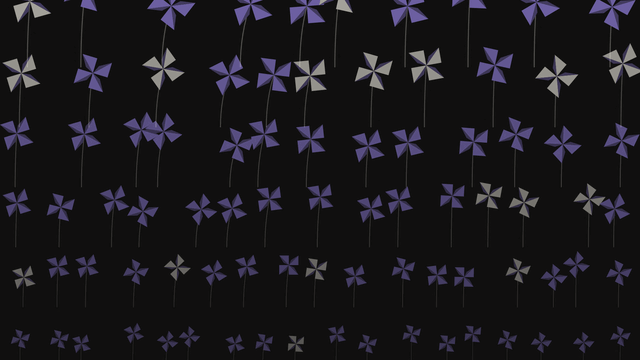
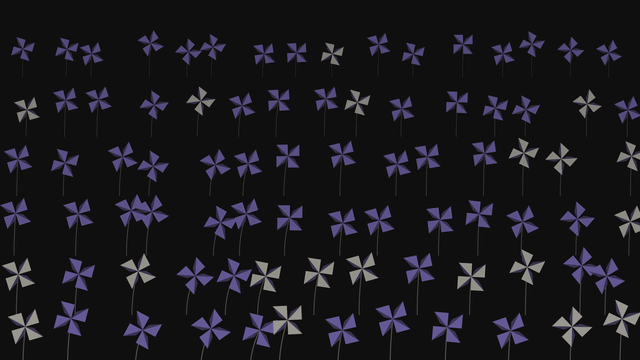
fix(bits): put the near rows of Pinwheel Meadow at the bottom and even out sizes

diff --git a/src/catalog/inventory.generated.ts b/src/catalog/inventory.generated.ts
@@ -793,7 +793,7 @@ export const sharedBitInventory: SharedBitInventoryEntry[] = [
       "random",
       "viewport"
     ],
-    "sourceCode": "<!doctype html>\n<html lang=\"en\" data-composition-variables='[{\"id\":\"background\",\"type\":\"color\",\"label\":\"Background\",\"default\":\"#100f0f\"},{\"id\":\"foreground\",\"type\":\"color\",\"label\":\"Foreground\",\"default\":\"#f2f0e5\"},{\"id\":\"accent\",\"type\":\"color\",\"label\":\"Accent\",\"default\":\"#9d8af0\"},{\"id\":\"pinwheels\",\"type\":\"number\",\"label\":\"Pinwheels per row\",\"default\":14},{\"id\":\"seed\",\"type\":\"number\",\"label\":\"Seed\",\"default\":5}]'>\n  <head>\n    <meta charset=\"UTF-8\" />\n    <meta name=\"viewport\" content=\"width=1920, height=1080\" />\n    <script src=\"https://cdn.jsdelivr.net/npm/gsap@3.14.2/dist/gsap.min.js\"></script>\n    <script src=\"hyperbits.iife.js\" data-hyperbits-src=\"https://unpkg.com/hyperbits/dist/hyperbits.iife.js\" data-hyperbits-local=\"../../../dist/hyperbits.iife.js\"></script>\n    <style>\n      :root {\n        --bg: #100f0f;\n        --fg: #f2f0e5;\n        --accent: #9d8af0;\n      }\n      * {\n        margin: 0;\n        padding: 0;\n        box-sizing: border-box;\n      }\n      html,\n      body {\n        margin: 0;\n        width: 1920px;\n        height: 1080px;\n        overflow: hidden;\n        background-color: #100f0f;\n      }\n      #root {\n        width: 100%;\n        height: 100%;\n        position: relative;\n        overflow: hidden;\n      }\n      #stage {\n        position: absolute;\n        inset: 0;\n        width: 100%;\n        height: 100%;\n        z-index: 1;\n      }\n    </style>\n  </head>\n  <body>\n    <div\n      id=\"root\"\n      class=\"clip\"\n      data-composition-id=\"pinwheel-grid\"\n      data-start=\"0\"\n      data-duration=\"12\"\n      data-width=\"1920\"\n      data-height=\"1080\"\n    >\n      <div id=\"bg\" class=\"clip\" data-start=\"0\" data-duration=\"12\" style=\"position:absolute;inset:0;background-color:#100f0f\"></div>\n      <canvas id=\"stage\" class=\"clip\" data-start=\"0\" data-duration=\"12\"></canvas>\n    </div>\n    <script>\n      (function () {\n\n        function bitVars() {\n          if (window.__hyperframes && typeof window.__hyperframes.getVariables === \"function\") {\n            return window.__hyperframes.getVariables();\n          }\n          const raw = document.documentElement.getAttribute(\"data-composition-variables\") || \"[]\";\n          const decls = JSON.parse(raw);\n          const values = {};\n          for (const entry of decls) values[entry.id] = entry.default;\n          return values;\n        }\n        function registerTimeline(compositionId, timeline) {\n          window.__timelines = window.__timelines || {};\n          window.__timelines[compositionId] = timeline;\n          timeline.seek(0);\n        }\n\n\n        const vars = bitVars();\n        const root = document.getElementById(\"root\");\n        const bg = document.getElementById(\"bg\");\n        const canvas = document.getElementById(\"stage\");\n        const view = hyperbits.viewport(root);\n        bg.style.backgroundColor = vars.background;\n        canvas.width = view.width;\n        canvas.height = view.height;\n        const context = canvas.getContext(\"2d\");\n        const loop = 12;\n        const turn = Math.PI * 2;\n        function channels(color) {\n          const parts = hyperbits.mixOklch(String(color), String(color), 0, \"rgb(0, 0, 0)\").match(/[0-9.]+/g) || [0, 0, 0];\n          return parts.slice(0, 3).map(Number);\n        }\n        function rgba(rgb, alpha) {\n          return \"rgba(\" + rgb[0] + \", \" + rgb[1] + \", \" + rgb[2] + \", \" + Math.min(Math.max(alpha, 0), 1) + \")\";\n        }\n        function mix(from, to, amount) {\n          return from.map((value, index) => Math.round(value + (to[index] - value) * amount));\n        }\n        const background = channels(vars.background);\n        const foreground = channels(vars.foreground);\n        const accent = channels(vars.accent);\n        const perRow = Math.max(2, Math.round(Number(vars.pinwheels) || 14));\n        const seed = Number(vars.seed) || 0;\n        const plants = [];\n        for (let row = 0; row < 6; row += 1) {\n          const depth = 1 - row / 6;\n          const count = Math.round(perRow * (0.7 + row * 0.12));\n          for (let index = 0; index < count; index += 1) {\n            const key = \"meadow-\" + seed + \"-\" + row + \"-\" + index;\n            plants.push({\n              depth,\n              baseX: view.width * ((index + hyperbits.randomFloat(key + \"-x\", 0.2, 0.8)) / count),\n              baseY: view.height * (1.02 - 0.17 * (5 - row) * 0.98),\n              height: view.vmin * (6 + 12 * depth) * hyperbits.randomFloat(key + \"-h\", 0.8, 1.2),\n              radius: view.vmin * (1.6 + 3.2 * depth),\n              tone: mix(hyperbits.random(key + \"-t\") > 0.75 ? foreground : accent, background, 0.35 + 0.4 * (1 - depth)),\n              fold: mix(accent, background, 0.65 + 0.2 * (1 - depth)),\n              spin: hyperbits.pick(key + \"-s\", [1, 1, -1]),\n            });\n          }\n        }\n        plants.sort((left, right) => left.depth - right.depth);\n        function wheel(radius, tone, fold) {\n          for (let blade = 0; blade < 4; blade += 1) {\n            context.fillStyle = rgba(tone, 1);\n            context.beginPath();\n            context.moveTo(0, 0);\n            context.lineTo(radius, 0);\n            context.lineTo(radius, -radius);\n            context.closePath();\n            context.fill();\n            context.fillStyle = rgba(fold, 1);\n            context.beginPath();\n            context.moveTo(0, 0);\n            context.lineTo(radius, -radius);\n            context.lineTo(radius * 0.25, -radius * 0.55);\n            context.closePath();\n            context.fill();\n            context.rotate(Math.PI / 2);\n          }\n        }\n        function draw(phase) {\n          if (!context || typeof context.stroke !== \"function\") return;\n          context.clearRect(0, 0, view.width, view.height);\n          for (const plant of plants) {\n            const gust = Math.pow(0.5 + 0.5 * Math.cos(turn * (phase - plant.baseX / view.width)), 3);\n            const tipX = plant.baseX + view.vmin * (0.6 + 2.4 * gust) * plant.depth;\n            const tipY = plant.baseY - plant.height;\n            context.strokeStyle = rgba(foreground, 0.12 + 0.18 * plant.depth);\n            context.lineWidth = view.vmin * (0.1 + 0.18 * plant.depth);\n            context.beginPath();\n            context.moveTo(plant.baseX, plant.baseY);\n            context.quadraticCurveTo(plant.baseX, plant.baseY - plant.height * 0.55, tipX, tipY);\n            context.stroke();\n            context.save();\n            context.translate(tipX, tipY);\n            context.rotate(plant.spin * (turn * phase + 0.8 * Math.sin(turn * (phase - plant.baseX / view.width))));\n            wheel(plant.radius, plant.tone, plant.fold);\n            context.restore();\n          }\n        }\n        const proxy = { time: 0 };\n        const timeline = gsap.timeline({ paused: true });\n        timeline.to(proxy, { time: loop, duration: loop, ease: \"none\", onUpdate: () => draw((proxy.time % loop) / loop) }, 0);\n        draw(0);\n        registerTimeline(\"pinwheel-grid\", timeline);\n\n      })();\n    </script>\n  </body>\n</html>\n",
+    "sourceCode": "<!doctype html>\n<html lang=\"en\" data-composition-variables='[{\"id\":\"background\",\"type\":\"color\",\"label\":\"Background\",\"default\":\"#100f0f\"},{\"id\":\"foreground\",\"type\":\"color\",\"label\":\"Foreground\",\"default\":\"#f2f0e5\"},{\"id\":\"accent\",\"type\":\"color\",\"label\":\"Accent\",\"default\":\"#9d8af0\"},{\"id\":\"pinwheels\",\"type\":\"number\",\"label\":\"Pinwheels per row\",\"default\":14},{\"id\":\"seed\",\"type\":\"number\",\"label\":\"Seed\",\"default\":5}]'>\n  <head>\n    <meta charset=\"UTF-8\" />\n    <meta name=\"viewport\" content=\"width=1920, height=1080\" />\n    <script src=\"https://cdn.jsdelivr.net/npm/gsap@3.14.2/dist/gsap.min.js\"></script>\n    <script src=\"hyperbits.iife.js\" data-hyperbits-src=\"https://unpkg.com/hyperbits/dist/hyperbits.iife.js\" data-hyperbits-local=\"../../../dist/hyperbits.iife.js\"></script>\n    <style>\n      :root {\n        --bg: #100f0f;\n        --fg: #f2f0e5;\n        --accent: #9d8af0;\n      }\n      * {\n        margin: 0;\n        padding: 0;\n        box-sizing: border-box;\n      }\n      html,\n      body {\n        margin: 0;\n        width: 1920px;\n        height: 1080px;\n        overflow: hidden;\n        background-color: #100f0f;\n      }\n      #root {\n        width: 100%;\n        height: 100%;\n        position: relative;\n        overflow: hidden;\n      }\n      #stage {\n        position: absolute;\n        inset: 0;\n        width: 100%;\n        height: 100%;\n        z-index: 1;\n      }\n    </style>\n  </head>\n  <body>\n    <div\n      id=\"root\"\n      class=\"clip\"\n      data-composition-id=\"pinwheel-grid\"\n      data-start=\"0\"\n      data-duration=\"12\"\n      data-width=\"1920\"\n      data-height=\"1080\"\n    >\n      <div id=\"bg\" class=\"clip\" data-start=\"0\" data-duration=\"12\" style=\"position:absolute;inset:0;background-color:#100f0f\"></div>\n      <canvas id=\"stage\" class=\"clip\" data-start=\"0\" data-duration=\"12\"></canvas>\n    </div>\n    <script>\n      (function () {\n\n        function bitVars() {\n          if (window.__hyperframes && typeof window.__hyperframes.getVariables === \"function\") {\n            return window.__hyperframes.getVariables();\n          }\n          const raw = document.documentElement.getAttribute(\"data-composition-variables\") || \"[]\";\n          const decls = JSON.parse(raw);\n          const values = {};\n          for (const entry of decls) values[entry.id] = entry.default;\n          return values;\n        }\n        function registerTimeline(compositionId, timeline) {\n          window.__timelines = window.__timelines || {};\n          window.__timelines[compositionId] = timeline;\n          timeline.seek(0);\n        }\n\n\n        const vars = bitVars();\n        const root = document.getElementById(\"root\");\n        const bg = document.getElementById(\"bg\");\n        const canvas = document.getElementById(\"stage\");\n        const view = hyperbits.viewport(root);\n        bg.style.backgroundColor = vars.background;\n        canvas.width = view.width;\n        canvas.height = view.height;\n        const context = canvas.getContext(\"2d\");\n        const loop = 12;\n        const turn = Math.PI * 2;\n        function channels(color) {\n          const parts = hyperbits.mixOklch(String(color), String(color), 0, \"rgb(0, 0, 0)\").match(/[0-9.]+/g) || [0, 0, 0];\n          return parts.slice(0, 3).map(Number);\n        }\n        function rgba(rgb, alpha) {\n          return \"rgba(\" + rgb[0] + \", \" + rgb[1] + \", \" + rgb[2] + \", \" + Math.min(Math.max(alpha, 0), 1) + \")\";\n        }\n        function mix(from, to, amount) {\n          return from.map((value, index) => Math.round(value + (to[index] - value) * amount));\n        }\n        const background = channels(vars.background);\n        const foreground = channels(vars.foreground);\n        const accent = channels(vars.accent);\n        const perRow = Math.max(2, Math.round(Number(vars.pinwheels) || 14));\n        const seed = Number(vars.seed) || 0;\n        const plants = [];\n        for (let row = 0; row < 6; row += 1) {\n          const depth = 1 - row / 6;\n          const count = Math.round(perRow * (0.85 + row * 0.06));\n          for (let index = 0; index < count; index += 1) {\n            const key = \"meadow-\" + seed + \"-\" + row + \"-\" + index;\n            plants.push({\n              depth,\n              baseX: view.width * ((index + hyperbits.randomFloat(key + \"-x\", 0.2, 0.8)) / count),\n              baseY: view.height * (1.04 - 0.165 * row),\n              height: view.vmin * (7 + 6 * depth) * hyperbits.randomFloat(key + \"-h\", 0.8, 1.2),\n              radius: view.vmin * (2.4 + 1.6 * depth),\n              tone: mix(hyperbits.random(key + \"-t\") > 0.75 ? foreground : accent, background, 0.4 + 0.15 * (1 - depth)),\n              fold: mix(accent, background, 0.7 + 0.1 * (1 - depth)),\n              spin: hyperbits.pick(key + \"-s\", [1, 1, -1]),\n            });\n          }\n        }\n        plants.sort((left, right) => left.depth - right.depth);\n        function wheel(radius, tone, fold) {\n          for (let blade = 0; blade < 4; blade += 1) {\n            context.fillStyle = rgba(tone, 1);\n            context.beginPath();\n            context.moveTo(0, 0);\n            context.lineTo(radius, 0);\n            context.lineTo(radius, -radius);\n            context.closePath();\n            context.fill();\n            context.fillStyle = rgba(fold, 1);\n            context.beginPath();\n            context.moveTo(0, 0);\n            context.lineTo(radius, -radius);\n            context.lineTo(radius * 0.25, -radius * 0.55);\n            context.closePath();\n            context.fill();\n            context.rotate(Math.PI / 2);\n          }\n        }\n        function draw(phase) {\n          if (!context || typeof context.stroke !== \"function\") return;\n          context.clearRect(0, 0, view.width, view.height);\n          for (const plant of plants) {\n            const gust = Math.pow(0.5 + 0.5 * Math.cos(turn * (phase - plant.baseX / view.width)), 3);\n            const tipX = plant.baseX + view.vmin * (0.6 + 2.4 * gust) * plant.depth;\n            const tipY = plant.baseY - plant.height;\n            context.strokeStyle = rgba(foreground, 0.12 + 0.18 * plant.depth);\n            context.lineWidth = view.vmin * (0.1 + 0.18 * plant.depth);\n            context.beginPath();\n            context.moveTo(plant.baseX, plant.baseY);\n            context.quadraticCurveTo(plant.baseX, plant.baseY - plant.height * 0.55, tipX, tipY);\n            context.stroke();\n            context.save();\n            context.translate(tipX, tipY);\n            context.rotate(plant.spin * (turn * phase + 0.8 * Math.sin(turn * (phase - plant.baseX / view.width))));\n            wheel(plant.radius, plant.tone, plant.fold);\n            context.restore();\n          }\n        }\n        const proxy = { time: 0 };\n        const timeline = gsap.timeline({ paused: true });\n        timeline.to(proxy, { time: loop, duration: loop, ease: \"none\", onUpdate: () => draw((proxy.time % loop) / loop) }, 0);\n        draw(0);\n        registerTimeline(\"pinwheel-grid\", timeline);\n\n      })();\n    </script>\n  </body>\n</html>\n",
     "registry": {
       "$schema": "https://hyperframes.heygen.com/schema/registry-item.json",
       "name": "pinwheel-grid",

diff --git a/bits/motion-loops/pinwheel-grid/index.html b/bits/motion-loops/pinwheel-grid/index.html
@@ -101,17 +101,17 @@
         const plants = [];
         for (let row = 0; row < 6; row += 1) {
           const depth = 1 - row / 6;
-          const count = Math.round(perRow * (0.7 + row * 0.12));
+          const count = Math.round(perRow * (0.85 + row * 0.06));
           for (let index = 0; index < count; index += 1) {
             const key = "meadow-" + seed + "-" + row + "-" + index;
             plants.push({
               depth,
               baseX: view.width * ((index + hyperbits.randomFloat(key + "-x", 0.2, 0.8)) / count),
-              baseY: view.height * (1.02 - 0.17 * (5 - row) * 0.98),
-              height: view.vmin * (6 + 12 * depth) * hyperbits.randomFloat(key + "-h", 0.8, 1.2),
-              radius: view.vmin * (1.6 + 3.2 * depth),
-              tone: mix(hyperbits.random(key + "-t") > 0.75 ? foreground : accent, background, 0.35 + 0.4 * (1 - depth)),
-              fold: mix(accent, background, 0.65 + 0.2 * (1 - depth)),
+              baseY: view.height * (1.04 - 0.165 * row),
+              height: view.vmin * (7 + 6 * depth) * hyperbits.randomFloat(key + "-h", 0.8, 1.2),
+              radius: view.vmin * (2.4 + 1.6 * depth),
+              tone: mix(hyperbits.random(key + "-t") > 0.75 ? foreground : accent, background, 0.4 + 0.15 * (1 - depth)),
+              fold: mix(accent, background, 0.7 + 0.1 * (1 - depth)),
               spin: hyperbits.pick(key + "-s", [1, 1, -1]),
             });
           }

diff --git a/docs/public/blocks/pinwheel-grid/index.html b/docs/public/blocks/pinwheel-grid/index.html
@@ -101,17 +101,17 @@
         const plants = [];
         for (let row = 0; row < 6; row += 1) {
           const depth = 1 - row / 6;
-          const count = Math.round(perRow * (0.7 + row * 0.12));
+          const count = Math.round(perRow * (0.85 + row * 0.06));
           for (let index = 0; index < count; index += 1) {
             const key = "meadow-" + seed + "-" + row + "-" + index;
             plants.push({
               depth,
               baseX: view.width * ((index + hyperbits.randomFloat(key + "-x", 0.2, 0.8)) / count),
-              baseY: view.height * (1.02 - 0.17 * (5 - row) * 0.98),
-              height: view.vmin * (6 + 12 * depth) * hyperbits.randomFloat(key + "-h", 0.8, 1.2),
-              radius: view.vmin * (1.6 + 3.2 * depth),
-              tone: mix(hyperbits.random(key + "-t") > 0.75 ? foreground : accent, background, 0.35 + 0.4 * (1 - depth)),
-              fold: mix(accent, background, 0.65 + 0.2 * (1 - depth)),
+              baseY: view.height * (1.04 - 0.165 * row),
+              height: view.vmin * (7 + 6 * depth) * hyperbits.randomFloat(key + "-h", 0.8, 1.2),
+              radius: view.vmin * (2.4 + 1.6 * depth),
+              tone: mix(hyperbits.random(key + "-t") > 0.75 ? foreground : accent, background, 0.4 + 0.15 * (1 - depth)),
+              fold: mix(accent, background, 0.7 + 0.1 * (1 - depth)),
               spin: hyperbits.pick(key + "-s", [1, 1, -1]),
             });
           }
